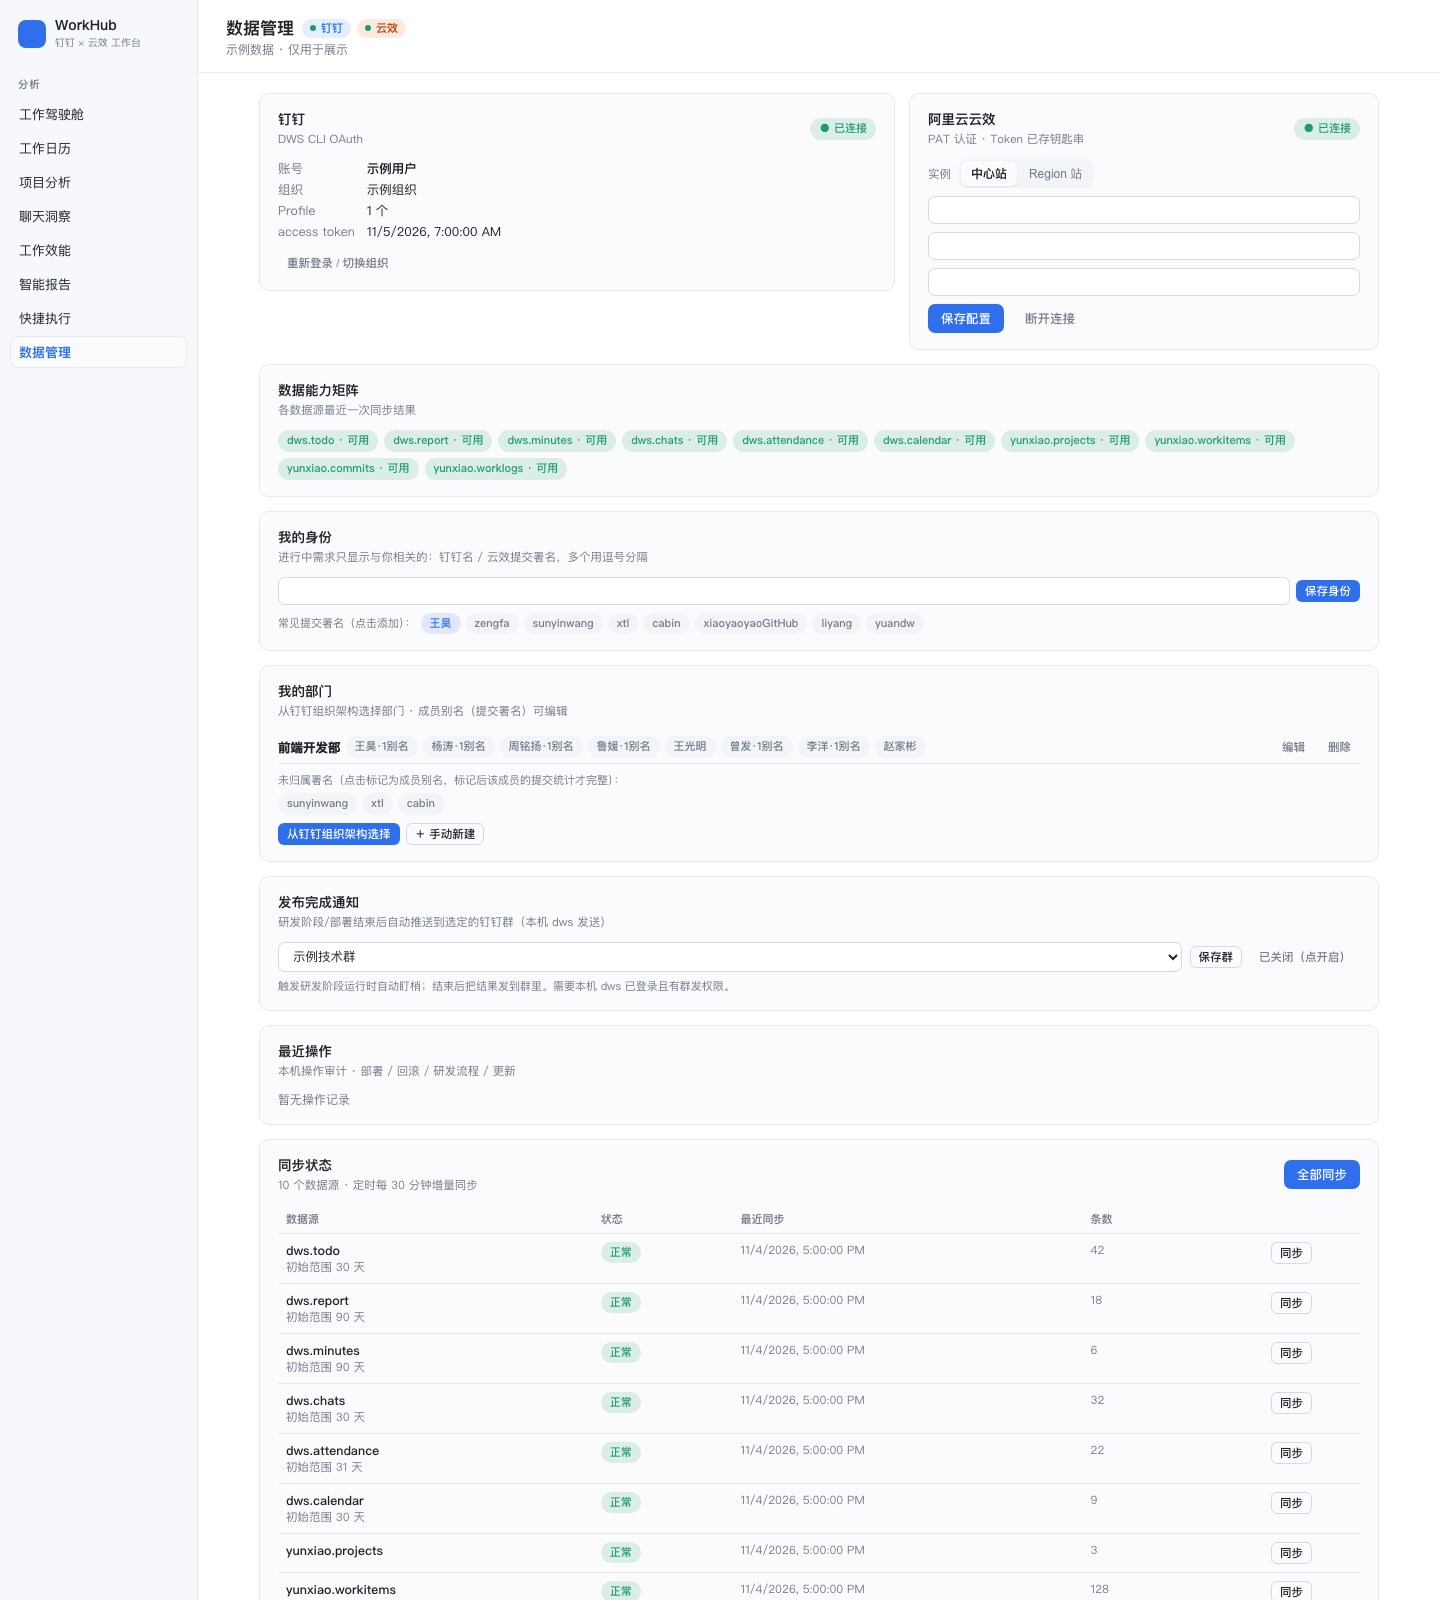
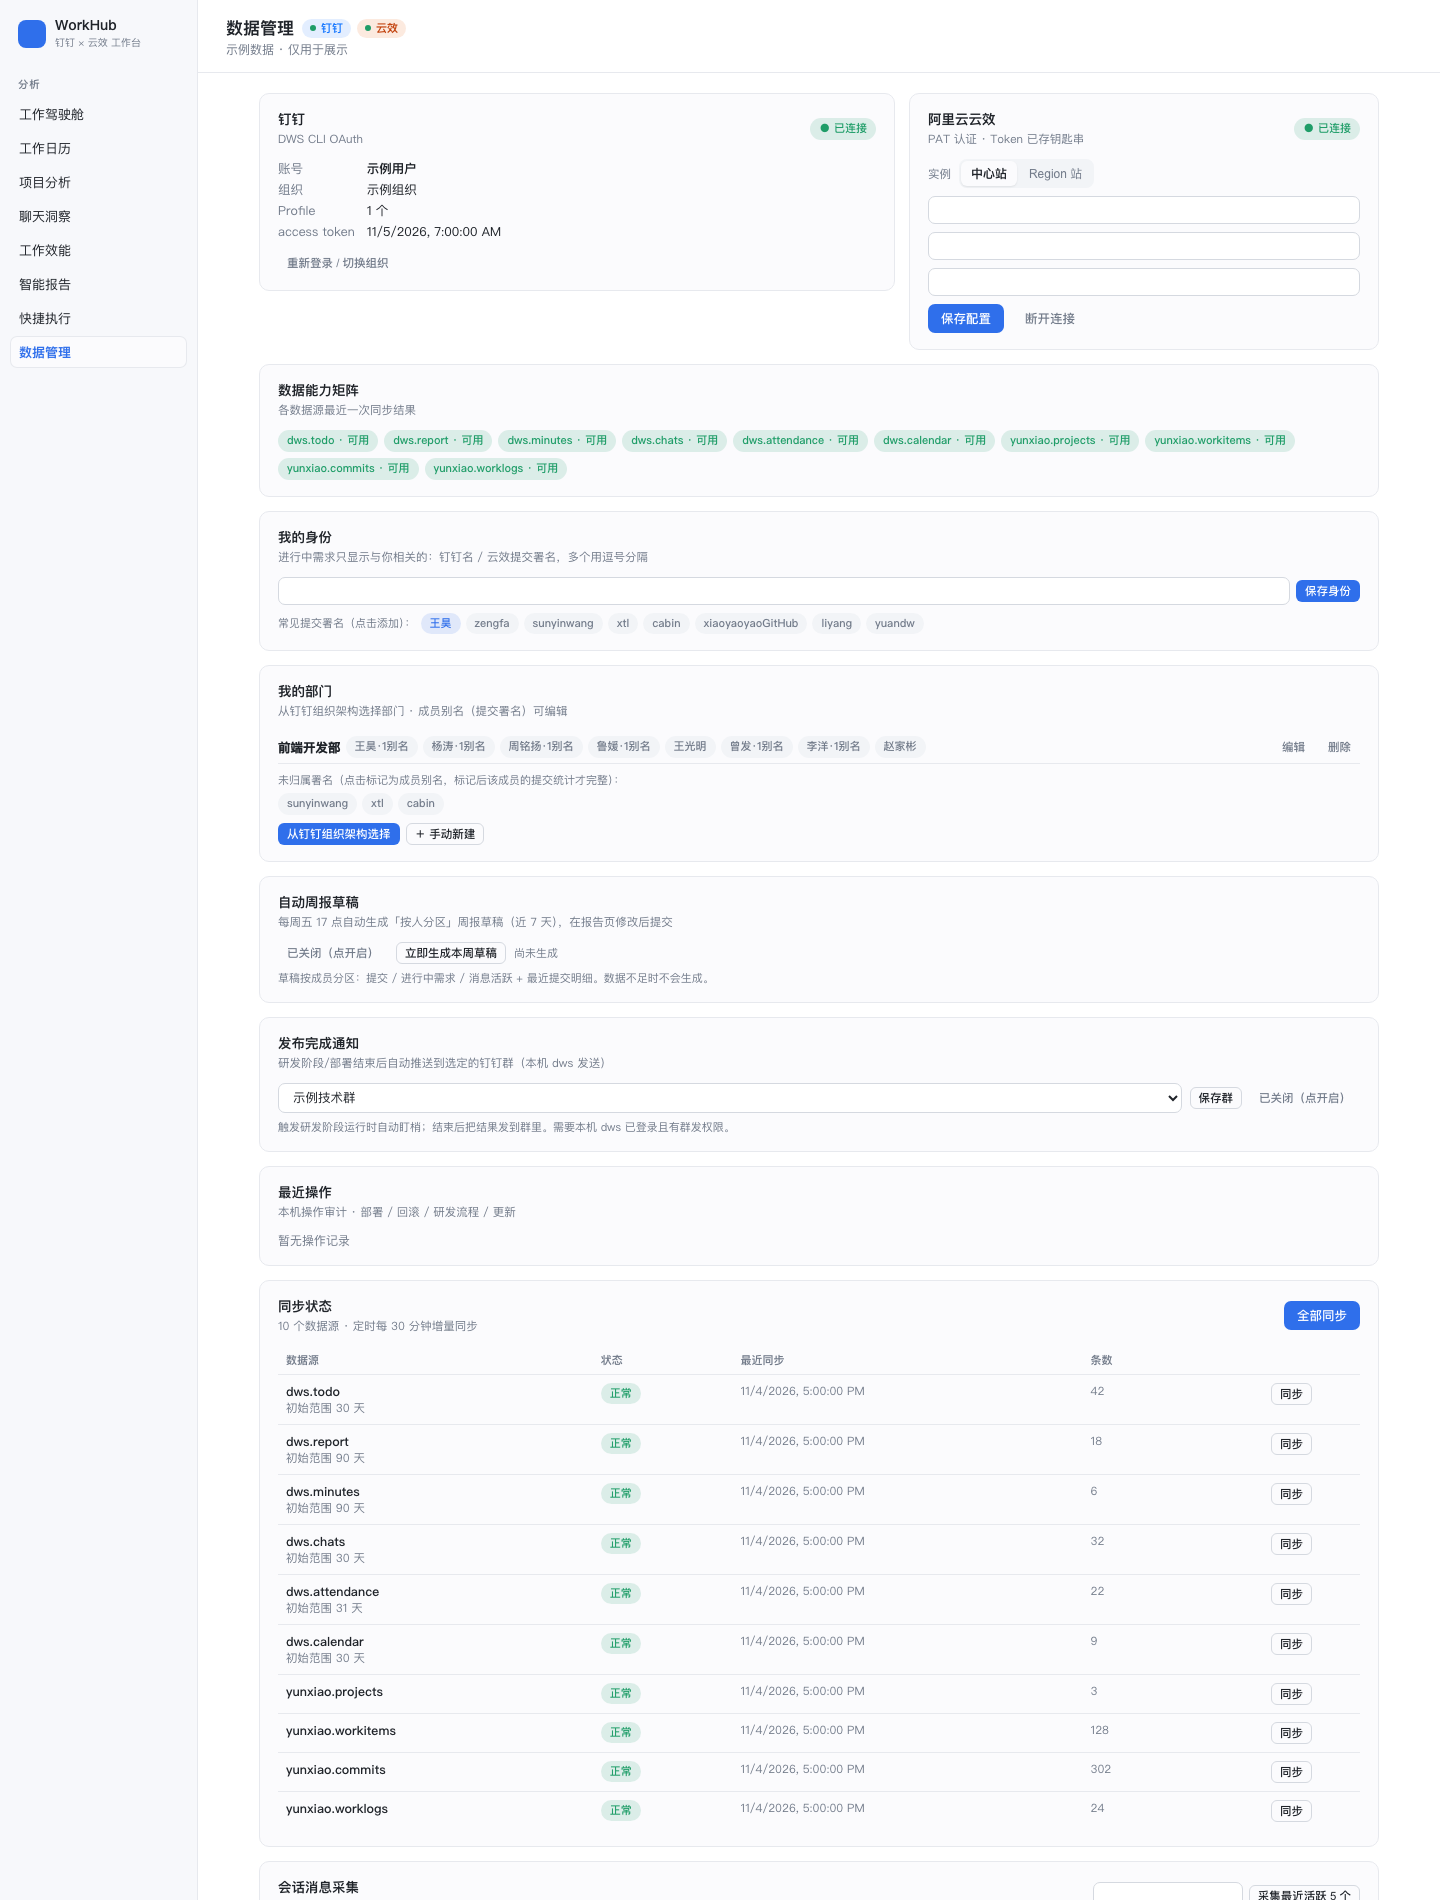
feat: 深色模式适配（DSH 主题 token + antd 暗色算法）+ 周五自动周报按人草稿

diff --git a/client.js b/client.js
@@ -314,9 +314,20 @@ react-is/cjs/react-is.production.js:
       const a = getAntd()
       if (!a) return children
       try {
+        // 跟随 DSH 主题：bg-base 亮度 < 0.5 视为暗色，antd 切 darkAlgorithm
+        let dark = false
+        try {
+          const el = document.querySelector('.wh-root')
+          const raw = getComputedStyle(el ?? document.documentElement).getPropertyValue('--dsw-alias-bg-base').trim()
+          const m = raw.match(/\d+(\.\d+)?/g)
+          if (m && m.length >= 3) dark = (0.299 * Number(m[0]) + 0.587 * Number(m[1]) + 0.114 * Number(m[2])) / 255 < 0.5
+        } catch { /* 默认亮色 */ }
         return h(a.ConfigProvider, {
           locale: a.zhCN?.default ?? a.zhCN,
-          theme: { token: { colorPrimary: '#2F6FEB', borderRadius: 8, fontSize: 12, controlHeight: 26 } },
+          theme: {
+            algorithm: dark && a.theme?.darkAlgorithm ? a.theme.darkAlgorithm : a.theme?.defaultAlgorithm,
+            token: { colorPrimary: '#2F6FEB', borderRadius: 8, fontSize: 12, controlHeight: 26 },
+          },
         }, children)
       } catch {
         return children
@@ -362,10 +373,10 @@ react-is/cjs/react-is.production.js:
 
     const CSS = `
 .wh-root{display:flex;height:100%;font-size:13px;color:var(--dsw-alias-label-primary);background:var(--dsw-alias-bg-base);
-  --wh-accent:#2F6FEB;--wh-accent-soft:rgba(47,111,235,.13);
-  --wh-ok:#1F9D68;--wh-ok-soft:rgba(31,157,104,.14);
-  --wh-warn:#B8770A;--wh-warn-soft:rgba(184,119,10,.16);
-  --wh-bad:#D9483B;--wh-bad-soft:rgba(217,72,59,.14)}
+  --wh-accent:var(--dsw-alias-state-business-primary,#2F6FEB);--wh-accent-soft:color-mix(in srgb,var(--wh-accent) 13%,transparent);
+  --wh-ok:var(--dsw-alias-state-success-primary,#1F9D68);--wh-ok-soft:var(--dsw-alias-state-success-secondary,rgba(31,157,104,.14));
+  --wh-warn:var(--dsw-alias-state-warn-primary,#B8770A);--wh-warn-soft:var(--dsw-alias-state-warn-secondary,rgba(184,119,10,.16));
+  --wh-bad:var(--dsw-alias-state-error-primary,#D9483B);--wh-bad-soft:var(--dsw-alias-state-error-secondary,rgba(217,72,59,.14))}
 .wh-root *{box-sizing:border-box}
 .wh-side{width:198px;flex:none;display:flex;flex-direction:column;padding:14px 10px 10px;gap:2px;
   background:var(--dsw-specific-sidebar-fill);border-right:1px solid var(--dsw-alias-border-l1);overflow-y:auto}
@@ -1185,6 +1196,8 @@ react-is/cjs/react-is.production.js:
       const [markMember, setMarkMember] = useState('')
       const [hist, setHist] = useState(null)
       const [notify, setNotify] = useState({ enabled: false, chatId: '' })
+      const [weekly, setWeekly] = useState(null)
+      const [wBusy, setWBusy] = useState(false)
 
       const refreshGroups = useCallback(() => api('/groups').then((r) => {
         setGroups(r.groups ?? [])
@@ -1201,7 +1214,18 @@ react-is/cjs/react-is.production.js:
       useEffect(() => {
         void api('/actions/history').then((r) => setHist(r.ops ?? [])).catch(() => {})
         void api('/actions/appstack/notify-prefs').then(setNotify).catch(() => {})
+        void api('/reports/weekly').then(setWeekly).catch(() => {})
       }, [])
+      const saveWeekly = async (next) => {
+        setWBusy(true)
+        try {
+          const r = await api('/reports/weekly', { method: 'POST', body: JSON.stringify(next) })
+          if (next.generate) {
+            toast(`已生成本周草稿：${r.analysis?.payload?.title ?? ''}`)
+            setWeekly((p0) => ({ ...(p0 ?? {}), last: new Date().toISOString().slice(0, 10) }))
+          } else setWeekly((p0) => ({ ...(p0 ?? {}), enabled: r.enabled }))
+        } catch (e) { setMsg(`周报草稿失败: ${e.message}`) } finally { setWBusy(false) }
+      }
       const saveNotify = async (next) => {
         try {
           const r = await api('/actions/appstack/notify-prefs', { method: 'POST', body: JSON.stringify(next) })
@@ -1627,6 +1651,19 @@ react-is/cjs/react-is.production.js:
                     },
                   }, '＋ 手动新建'))
               : null),
+        h(Card, {
+          title: '自动周报草稿',
+          sub: '每周五 17 点自动生成「按人分区」周报草稿（近 7 天），在报告页修改后提交',
+        },
+          h('div', { className: 'wh-toolbar', style: { gap: 8, flexWrap: 'wrap', alignItems: 'center' } },
+            h(Btn, {
+              size: 'sm', variant: weekly?.enabled ? 'primary' : 'ghost',
+              disabled: wBusy, onClick: () => saveWeekly({ enabled: !(weekly?.enabled) }),
+            }, weekly?.enabled ? '已开启（点关闭）' : '已关闭（点开启）'),
+            h(Btn, { size: 'sm', disabled: wBusy, onClick: () => saveWeekly({ generate: true }) }, wBusy ? '生成中…' : '立即生成本周草稿'),
+            h('span', { className: 'wh-muted', style: { fontSize: 11 } }, weekly?.last ? `上次生成：${weekly.last}` : '尚未生成')),
+          h('div', { className: 'wh-muted', style: { fontSize: 11, marginTop: 6 } },
+            '草稿按成员分区：提交 / 进行中需求 / 消息活跃 + 最近提交明细。数据不足时不会生成。')),
         h(Card, {
           title: '发布完成通知',
           sub: '研发阶段/部署结束后自动推送到选定的钉钉群（本机 dws 发送）',

diff --git a/lib/storage/db.js b/lib/storage/db.js
@@ -745,6 +745,57 @@ export class WorkHubDB {
 
   /** Deterministic report input: project-linked or global, plus period metrics. */
   /**
+   * 周报草稿（按人维度）：近 7 天概览 + 每人分区（提交/进行中/消息 + 明细）。
+   * 返回 saveAnalysis 所需结构；evidence 用近期工作项兜底。
+   */
+  buildWeeklyDraft() {
+    const input = this.reportInput({ days: 7 })
+    const counts = input.thisPeriod ?? {}
+    const total = Object.values(counts).reduce((a, b) => a + b, 0)
+    const start = dayIso(7)
+    const end = dayIso(1)
+    const sections = [{ title: '整体概览', content: `近 7 天（${start} ~ ${end}）共 ${total} 条工作事件：${Object.entries(counts).map(([k, v]) => `${k} ${v}`).join(' · ')}` }]
+    for (const m of input.byPerson?.members ?? []) {
+      const lines = []
+      if (m.commits.recent.length) lines.push(`最近提交：${m.commits.recent.join('；')}`)
+      if (m.inProgress.items.length) lines.push(`进行中：${m.inProgress.items.map((it) => `${it.title}（${it.status}）`).join('；')}`)
+      if (m.chats.n >= 50) lines.push(`消息活跃（${m.chats.n} 条）`)
+      sections.push({
+        title: `${m.name} · 提交 ${m.commits.n} / 进行中 ${m.inProgress.n} / 消息 ${m.chats.n}`,
+        content: lines.join('\n') || '本周无记录',
+      })
+    }
+    const evidence = (input.recent ?? []).slice(0, 5).map((r) => r.itemId).filter(Boolean)
+    return {
+      title: `周报草稿（按人） · ${start} ~ ${end}`,
+      overview: `近 7 天团队工作概览，共 ${total} 条事件，覆盖 ${sections.length - 1} 名成员。由 WorkHub 自动汇总，供修改后提交。`,
+      sections,
+      evidenceItemIds: evidence,
+    }
+  }
+
+  /** 周五 17 点后自动生成本周草稿（每周一份；report.weeklyAuto 开关）。force=1 手动触发。 */
+  saveWeeklyDraftIfDue({ force = false } = {}) {
+    if (force !== true && this.getSetting('report.weeklyAuto') !== '1') return null
+    const now = new Date()
+    if (force !== true && (now.getDay() !== 5 || now.getHours() < 17)) return null
+    const weekKey = dayIso(0) // 周五当天日期
+    if (!force && this.getSetting('report.weeklyLast') === weekKey) return null
+    const draft = this.buildWeeklyDraft()
+    const evidence = this.sourcesForItems(draft.evidenceItemIds)
+    if (!evidence.length) return null
+    const analysis = this.saveAnalysis({
+      kind: 'report_draft',
+      scope: { periodDays: 7, auto: true },
+      payload: { title: draft.title, overview: draft.overview, sections: draft.sections },
+      sources: evidence,
+      model: 'workhub-auto',
+    })
+    this.setSetting('report.weeklyLast', weekKey)
+    return analysis
+  }
+
+  /**
    * 按人维度聚合（日报/周报的个人分区数据源）：
    * 取所有部门成员（无部门则高频活跃人）在周期内的提交/进行中需求/消息，按总活跃倒序。
    */

diff --git a/lib/api.js b/lib/api.js
@@ -799,6 +799,12 @@ export function createWorkHubRouter(options = {}) {
       return { enabled: n.enabled === true, chatId: String(n.chatId ?? '') }
     },
 
+    /* 自动周报草稿：状态 + 手动生成本周草稿 */
+    '/reports/weekly': async () => ({
+      enabled: db.getSetting('report.weeklyAuto') === '1',
+      last: db.getSetting('report.weeklyLast') ?? null,
+    }),
+
     /* 最近操作（审计可视化） */
     '/actions/history': async () => {
       const rows = db.db
@@ -1651,6 +1657,16 @@ export function createWorkHubRouter(options = {}) {
       db.setSetting('workhub.onboardingDismissed', '1')
       onboardingMem.data = null
       return { ok: true }
+    },
+    /* 自动周报：开关 / 立即生成本周草稿 */
+    '/reports/weekly': async (params, body) => {
+      if (body?.enabled !== undefined) db.setSetting('report.weeklyAuto', body.enabled === true ? '1' : '0')
+      if (body?.generate === true) {
+        const analysis = db.saveWeeklyDraftIfDue({ force: true })
+        if (!analysis) throw httpError(400, '近 7 天无可引用的工作项，无法生成草稿')
+        return { ok: true, analysis }
+      }
+      return { ok: true, enabled: db.getSetting('report.weeklyAuto') === '1', last: db.getSetting('report.weeklyLast') ?? null }
     },
     /* 发布完成通知偏好：钉钉群 openConversationId + 开关 */
     '/actions/appstack/notify-prefs': async (params, body) => {

diff --git a/index.js b/index.js
@@ -27,6 +27,16 @@ export function apply(ctx) {
     return () => clearInterval(timer)
   })
 
+  // 自动周报草稿：每小时检查一次，周五 17 点后生成本周按人分区草稿（report.weeklyAuto 开关）
+  ctx.effect(() => {
+    const tick = async () => {
+      try { router.db.saveWeeklyDraftIfDue?.() } catch {}
+    }
+    void tick()
+    const weeklyTimer = setInterval(tick, 60 * 60 * 1000)
+    return () => clearInterval(weeklyTimer)
+  })
+
   registerWorkHubTools(ctx, router)
 
   return () => {
